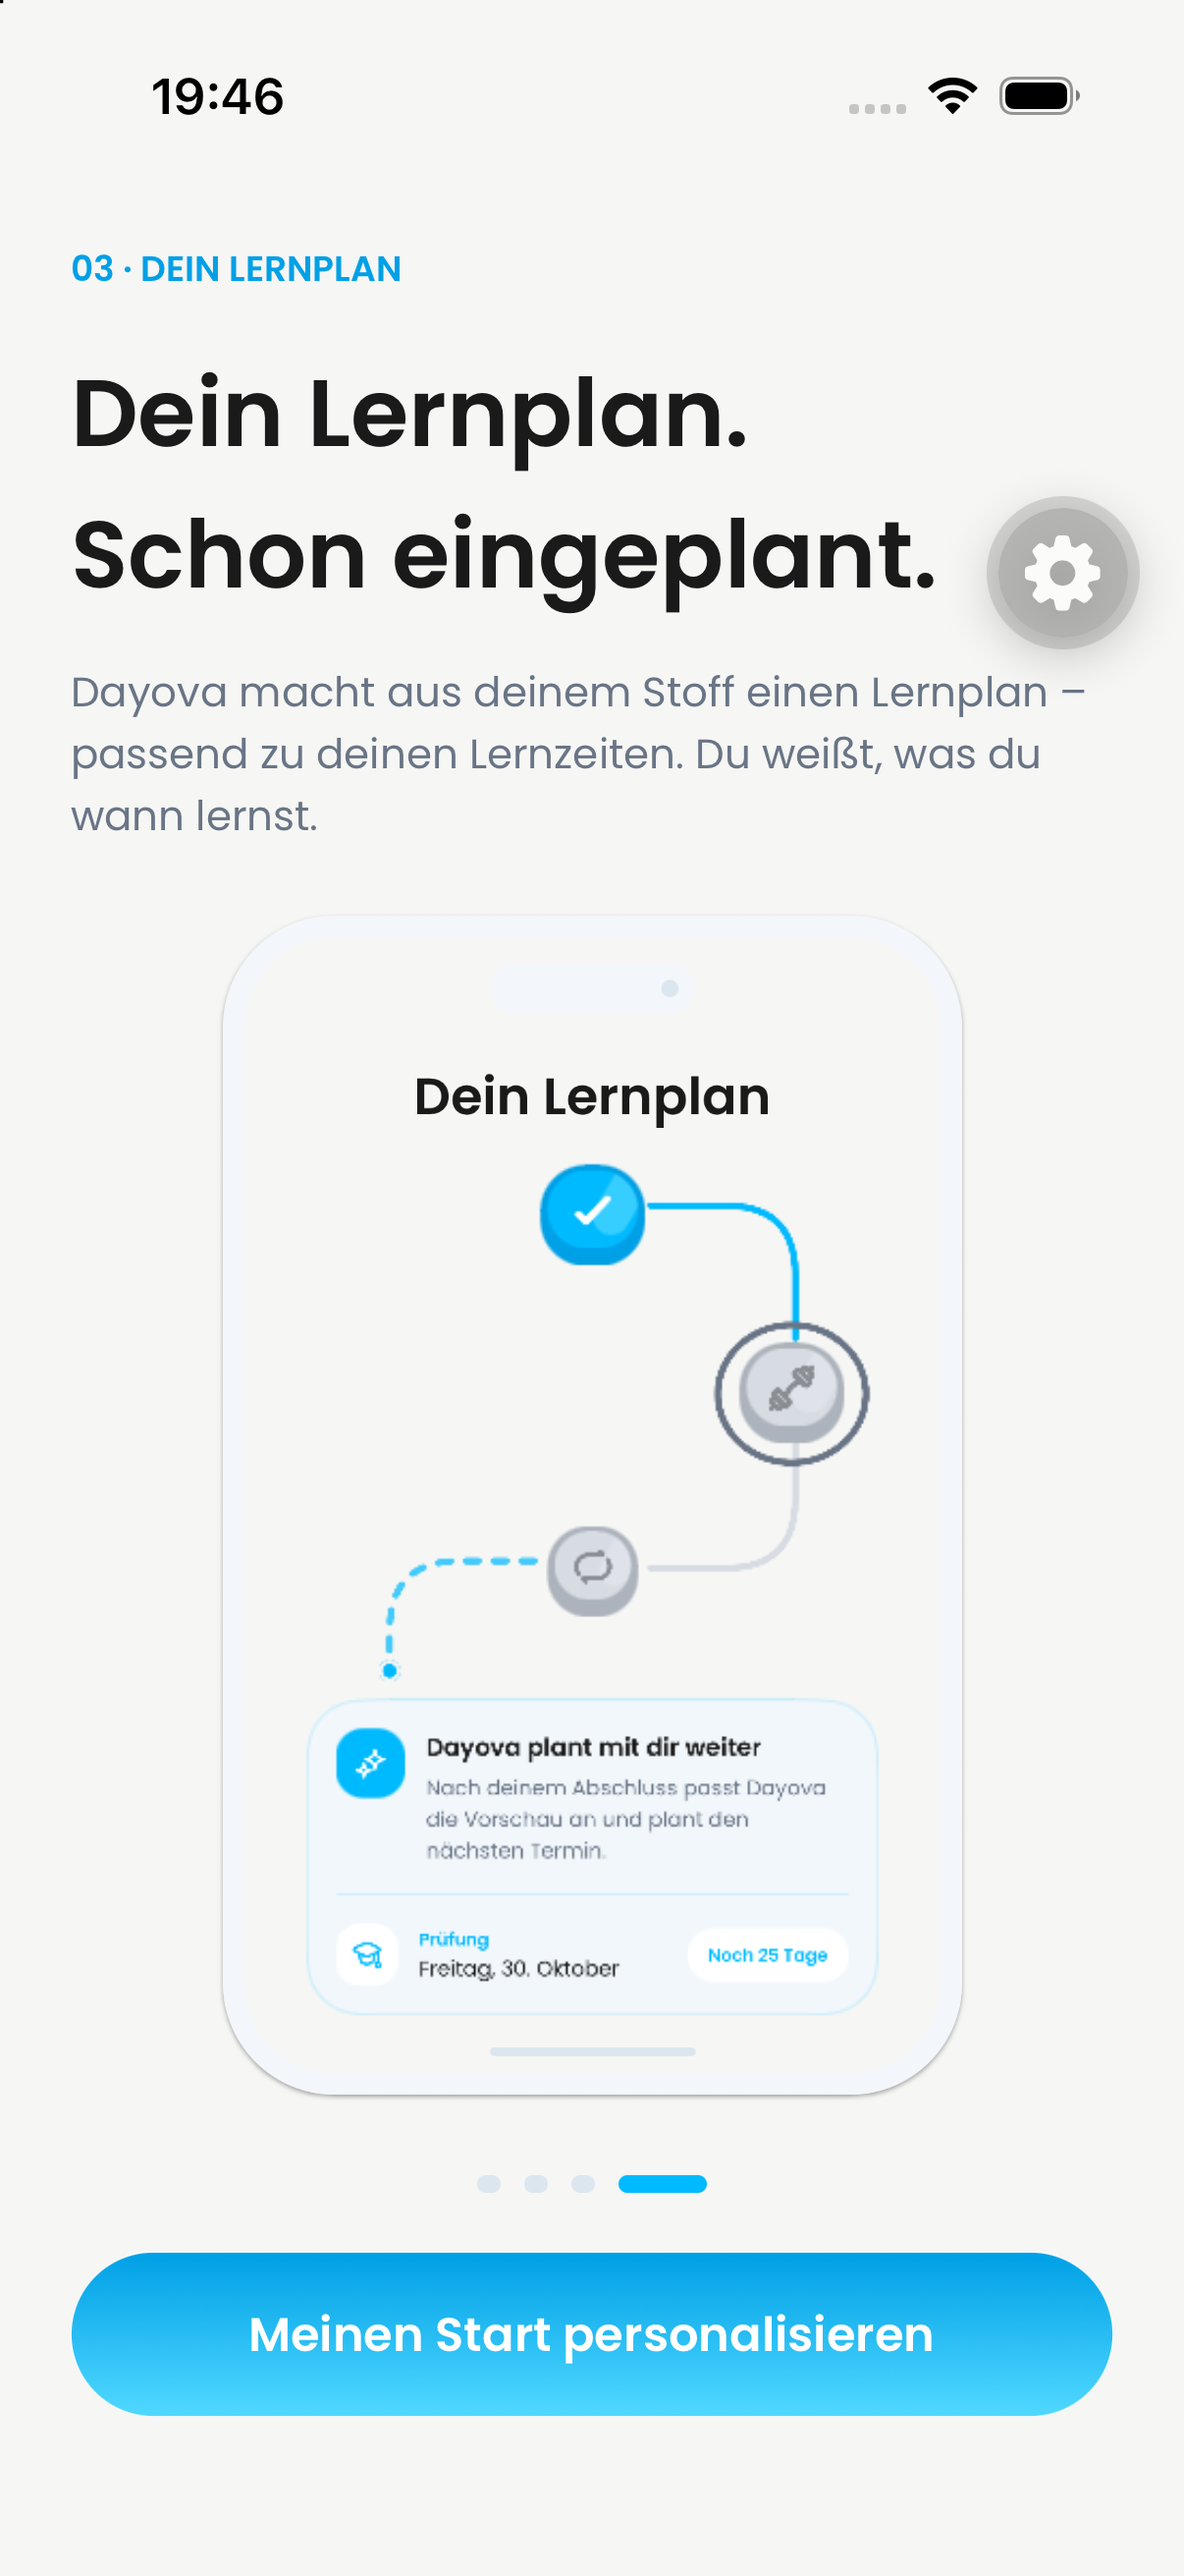
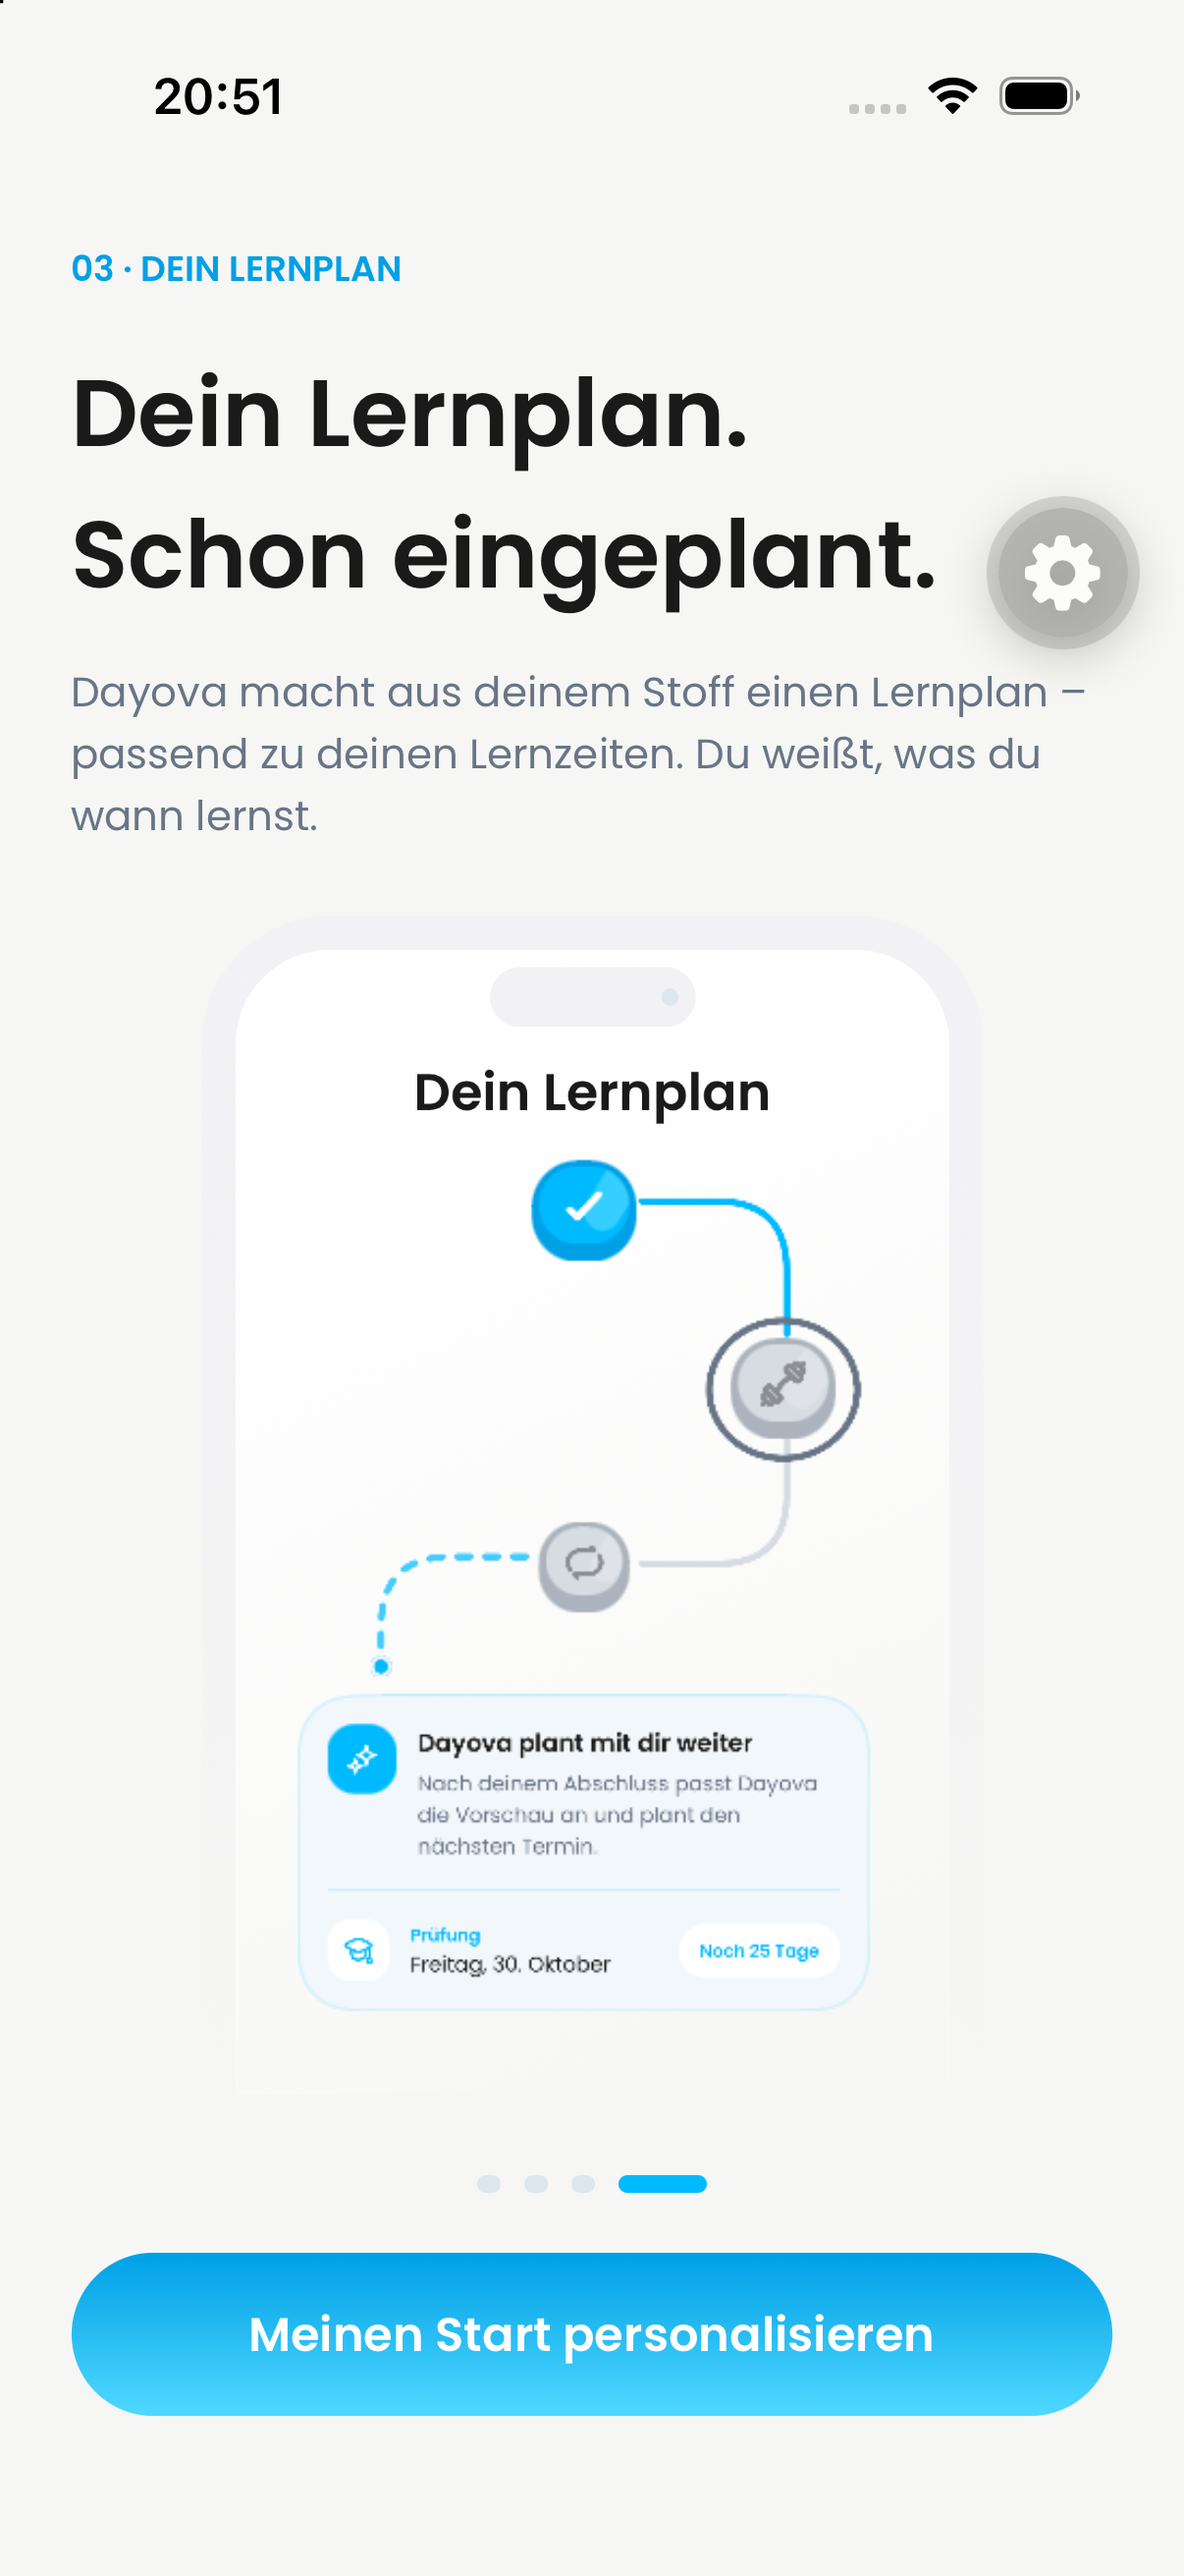
design: match intro phone frame to supplied reference

diff --git a/src/components/onboarding/intro-phone-frame.tsx b/src/components/onboarding/intro-phone-frame.tsx
@@ -1,7 +1,8 @@
 import type { ReactNode } from "react";
 import { View } from "react-native";
+import { useDayovaTheme } from "~/lib/theme";
 
-/** Decorative device chrome. Children remain real product presentation modules. */
+/** Decorative hardware, matched to the supplied light/dark device reference. */
 export function IntroPhoneFrame({
 	children,
 	width,
@@ -13,7 +14,11 @@ export function IntroPhoneFrame({
 	height: number;
 	testID: string;
 }) {
-	const scale = Math.min(width / 345, height / 550);
+	const { isDark, colors } = useDayovaTheme();
+	const scale = Math.min(width / 365, height / 550);
+	// Hardware finishes are illustration colors, not new product surface tokens.
+	const shell = isDark ? "#1D1D1F" : "#F2F2F5";
+	const screen = isDark ? "#000000" : "#FFFFFF";
 	return (
 		<View
 			testID={testID}
@@ -22,21 +27,36 @@ export function IntroPhoneFrame({
 			importantForAccessibility="no-hide-descendants"
 			pointerEvents="none"
 			className="items-center justify-center"
-			// Fit one fixed device artboard into the available native page.
+			// The fixed artboard is uniformly fitted to the native page bounds.
 			style={{ width, height }}
 		>
 			<View
-				className="h-[550px] w-[345px] rounded-[52px] border-[10px] border-muted bg-background shadow-black/5 shadow-sm"
-				// Scale the entire device, including its decorative text, uniformly.
-				style={{ transform: [{ scale }] }}
+				className="h-[550px] w-[365px] overflow-hidden rounded-t-[60px]"
+				// Theme-aware hardware fill and responsive artboard scale.
+				style={{
+					backgroundColor: shell,
+					experimental_backgroundImage: `linear-gradient(to bottom, ${shell} 20%, ${colors.background} 100%)`,
+					transform: [{ scale }],
+				}}
 			>
-				<View className="absolute top-3 h-6 w-24 flex-row items-center justify-end self-center rounded-full bg-muted px-2">
+				<View
+					className="absolute inset-x-4 top-4 bottom-0 rounded-t-[44px]"
+					// The reference uses a white/black device screen in each theme.
+					style={{
+						backgroundColor: screen,
+						experimental_backgroundImage: `linear-gradient(155deg, ${screen} 20%, ${colors.background} 100%)`,
+					}}
+				/>
+				<View
+					className="absolute top-6 h-7 w-24 flex-row items-center justify-end self-center rounded-full px-2"
+					// The island shares the device finish rather than a product control color.
+					style={{ backgroundColor: shell }}
+				>
 					<View className="h-2 w-2 rounded-full bg-border" />
 				</View>
-				<View className="flex-1 overflow-hidden rounded-[40px] px-4 pt-14 pb-6">
+				<View className="flex-1 overflow-hidden px-8 pt-16 pb-6">
 					{children}
 				</View>
-				<View className="absolute bottom-2 h-1 w-24 self-center rounded-full bg-border" />
 			</View>
 		</View>
 	);

diff --git a/src/components/onboarding/intro-learning-path-artwork.ui.test.tsx b/src/components/onboarding/intro-learning-path-artwork.ui.test.tsx
@@ -107,3 +107,14 @@ describe("IntroLearningPathArtwork", () => {
 		expect(artwork).toHaveStyle({ width: 250, height: 168 });
 	});
 });
+
+jest.mock("~/lib/theme", () => ({
+	useDayovaTheme: () => ({
+		isDark: false,
+		colors: (
+			jest.requireActual(
+				"~/lib/design-system",
+			) as typeof import("~/lib/design-system")
+		).DAYOVA_DESIGN_SYSTEM.colors,
+	}),
+}));

diff --git a/docs/contexts/design-system/adr/onboarding-artwork-rendering.md b/docs/contexts/design-system/adr/onboarding-artwork-rendering.md
@@ -57,7 +57,9 @@ composition as the opening graphic and explicitly requested this direction.
 
 The three feature explanations use a shared decorative `IntroPhoneFrame`
 inspired by the provided light/dark device reference. The frame owns device
-chrome and uniform scaling, while the screen content uses real presentation
+chrome (soft top corners, white/black screen, subtle camera island and a
+diagonal fade into the page, without a bottom bezel) and uniform scaling,
+while the screen content uses real presentation
 modules. The calendar shows a real week with two example events. The upload
 preview shows the actual upload lead and card without the former extra panel.
 The learning path includes the shared adaptive continuation and exam card.
